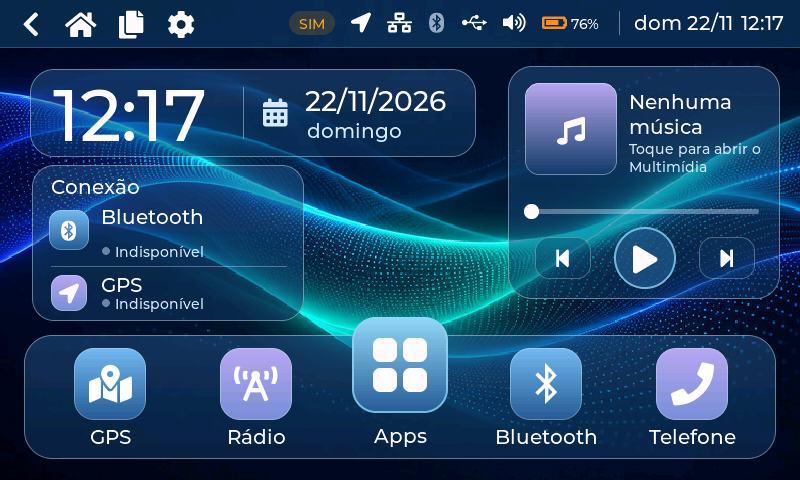
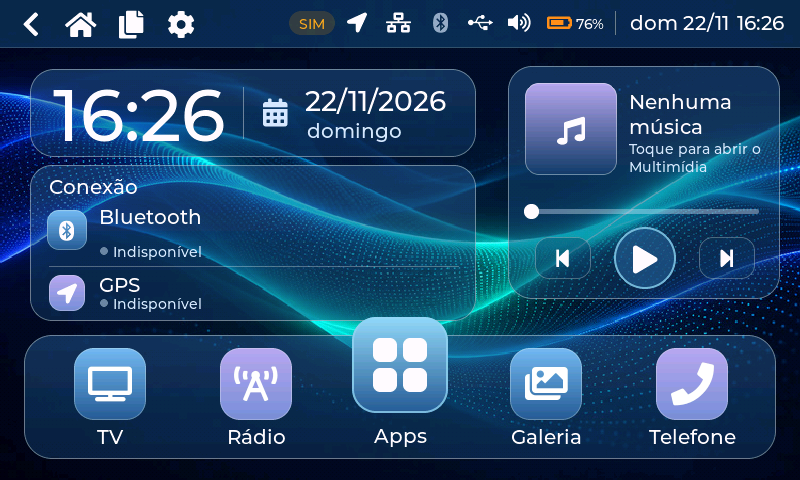
Início, barra superior e toque: atalhos, Conexão com o celular e rolagem estável
- Barra superior: caixas de toque de 44 px em volta dos ícones; GPS -> GpsInfo, rede ->
  SSH, Bluetooth -> Bluetooth, som -> volume num toque, bateria -> Potência.
- Glass: card Conexão mais largo (446 px), linhas inteiras clicáveis (os filhos não roubam
  o toque), operadora, antena e bateria do celular na linha do Bluetooth; dock com TV e
  Galeria no lugar de GPS e Bluetooth.
- Telefone: status ao lado das abas com operadora, antena e bateria; abas compactas.
- Toque: mediana de 3 amostras, média e zona morta de 2 px; LVGL com limiar de rolagem
  de 16 px e arremesso mais curto (rolagem estável no painel resistivo).

Testado no aparelho: volume abre com um toque; o texto da linha Bluetooth abre a tela.

diff --git a/src/ui/screens/scr_home_glass.c b/src/ui/screens/scr_home_glass.c
@@ -15,6 +15,7 @@
 #include "../core/cover.h"
 #include "../core/btstat.h"
 #include "../core/gpsstat.h"
+#include "../core/phonestat.h"
 #include "../widgets/glass.h"
 #include "../assets/icons/bf_icons.h"
 #include <stdio.h>
@@ -25,7 +26,7 @@
 
 static lv_timer_t *tick_t, *spec_t;
 static lv_obj_t *clk, *date_l, *wday_l;
-static lv_obj_t *bt_dev, *bt_st, *bt_dot, *gps_st, *gps_dot, *gps_bars;
+static lv_obj_t *bt_dev, *bt_st, *bt_dot, *gps_st, *gps_dot, *gps_bars, *ph_op, *ph_bars, *ph_bat;
 static lv_obj_t *cov_box, *cov_img, *cov_note, *song, *artist, *spec, *pos_l, *len_l, *prog, *play_l;
 static lv_image_dsc_t thumb;
 static int thumb_for = -2, last_min = -1, last_day = -1;
@@ -105,12 +106,25 @@ static void gl_clock_tick(void)
 static void open_bt(lv_event_t *e) { (void)e; nav_go(SCR_BLUETOOTH, 0); }
 static void open_gps(lv_event_t *e) { (void)e; nav_go(SCR_GPS, 0); }
 
+#define CONN_W 446                         /* largura do card Conexão (alinhado ao do relógio) */
+
+/* a linha inteira é o botão: os filhos não pegam o toque */
+static void unclick_children(lv_obj_t *o)
+{
+    for(uint32_t i = 0; i < lv_obj_get_child_count(o); i++) {
+        lv_obj_t *c = lv_obj_get_child(o, (int32_t)i);
+        lv_obj_remove_flag(c, LV_OBJ_FLAG_CLICKABLE);
+        unclick_children(c);
+    }
+}
+
 static lv_obj_t *row(lv_obj_t *card, int y, int h, lv_event_cb_t cb)
 {
     lv_obj_t *r = lv_obj_create(card);
     lv_obj_remove_style_all(r);
     lv_obj_set_pos(r, 6, y);
-    lv_obj_set_size(r, 258, h);
+    lv_obj_set_size(r, CONN_W - 14, h);
+    lv_obj_add_flag(r, LV_OBJ_FLAG_CLICKABLE);
     lv_obj_set_style_radius(r, 14, 0);
     lv_obj_set_style_bg_color(r, lv_color_white(), LV_STATE_PRESSED);
     lv_obj_set_style_bg_opa(r, LV_OPA_10, LV_STATE_PRESSED);
@@ -132,7 +146,7 @@ static lv_obj_t *dot(lv_obj_t *parent)
 
 static void conn_card(lv_obj_t *p)
 {
-    lv_obj_t *c = glass_card(p, 32, 117, 272, 156, 22);     /* folga abaixo do GPS */
+    lv_obj_t *c = glass_card(p, 30, 117, CONN_W, 156, 22);  /* folga abaixo do GPS */
     lv_obj_t *t = glass_label(c, tr(S_GL_CONNECTION), BF_FONT_M, GL_WHITE);
     lv_obj_set_pos(t, 18, 8);
 
@@ -149,10 +163,22 @@ static void conn_card(lv_obj_t *p)
     lv_obj_set_pos(bt_dot, 63, 45);
     bt_st = glass_label(r, "", BF_FONT_S, GL_ACTIVE);
     lv_obj_set_pos(bt_st, 76, 40);
+    /* celular conectado: operadora, antena (sinal 0-5 em 4 barras) e bateria */
+    ph_op = glass_label(r, "", BF_FONT_S, GL_WHITE);
+    lv_obj_set_width(ph_op, 160);
+    lv_label_set_long_mode(ph_op, LV_LABEL_LONG_DOT);
+    lv_obj_set_style_text_align(ph_op, LV_TEXT_ALIGN_RIGHT, 0);
+    lv_obj_set_pos(ph_op, CONN_W - 14 - 170, 6);
+    ph_bars = glass_bars(r);
+    lv_obj_set_pos(ph_bars, CONN_W - 14 - 100, 30);
+    ph_bat = glass_label(r, "", BF_FONT_S, GL_WHITE);
+    lv_obj_set_pos(ph_bat, CONN_W - 14 - 62, 34);
+    glass_bars_set(ph_bars, -1);
+    unclick_children(r);
 
     lv_obj_t *line = lv_obj_create(c);
     lv_obj_remove_style_all(line);
-    lv_obj_set_size(line, 236, 1);
+    lv_obj_set_size(line, CONN_W - 36, 1);
     lv_obj_set_pos(line, 18, 100);
     lv_obj_set_style_bg_color(line, lv_color_white(), 0);
     lv_obj_set_style_bg_opa(line, LV_OPA_30, 0);
@@ -167,7 +193,8 @@ static void conn_card(lv_obj_t *p)
     gps_st = glass_label(r, "", BF_FONT_S, GL_ACTIVE);
     lv_obj_set_pos(gps_st, 76, 22);
     gps_bars = glass_bars(r);
-    lv_obj_set_pos(gps_bars, 216, 8);
+    lv_obj_set_pos(gps_bars, CONN_W - 14 - 46, 8);
+    unclick_children(r);
 }
 
 static void status_color(lv_obj_t *dot_, lv_obj_t *lbl, bool on)
@@ -200,6 +227,23 @@ static void conn_tick(void)
     set_text_if(bt_dev, dev);
     set_text_if(bt_st, st);
     status_color(bt_dot, bt_st, on);
+
+    /* celular pelo canal de ligações (HFP): operadora, sinal e bateria dele */
+    ph_info_t ph;
+    ph_read(&ph);
+    if(ph.link && ph.signal >= 0) {
+        set_text_if(ph_op, ph.op[0] ? ph.op : "");
+        glass_bars_set(ph_bars, ph.service == 0 ? 0 : (ph.signal * 4 + 4) / 5);
+        char bb[24];
+        snprintf(bb, sizeof bb, "%s %d/5", ph.battery >= 4 ? LV_SYMBOL_BATTERY_FULL : ph.battery >= 3 ? LV_SYMBOL_BATTERY_3 :
+                 ph.battery >= 2 ? LV_SYMBOL_BATTERY_2 : ph.battery >= 1 ? LV_SYMBOL_BATTERY_1 : LV_SYMBOL_BATTERY_EMPTY,
+                 ph.battery < 0 ? 0 : ph.battery);
+        set_text_if(ph_bat, ph.battery >= 0 ? bb : "");
+    } else {
+        set_text_if(ph_op, "");
+        set_text_if(ph_bat, "");
+        glass_bars_set(ph_bars, -1);
+    }
 
     gps_info_t g;
     gps_read(&g);
@@ -423,10 +467,10 @@ static void spec_tick(lv_timer_t *t)
 static void dock_click(lv_event_t *e)
 {
     switch((int)(intptr_t)lv_event_get_user_data(e)) {
-    case 0: nav_go(SCR_MAP, 0); break;
+    case 0: nav_go(SCR_FEATURE, FEAT_TV); break;
     case 1: nav_go(SCR_FEATURE, FEAT_RADIO); break;
     case 2: nav_go(SCR_HOME, HOME_ARG_APPS); break;
-    case 3: nav_go(SCR_BLUETOOTH, 0); break;
+    case 3: nav_go(SCR_GALLERY, 0); break;
     case 4: nav_go(SCR_PHONE, 0); break;
     }
 }
@@ -462,10 +506,10 @@ static void dock(lv_obj_t *p)
 {
     lv_obj_t *d = glass_card(p, 24, 287, 752, 124, 28);
     static const struct { const lv_image_dsc_t *icon; bf_str_t name; uint32_t top, bot; } it[5] = {
-        { &bf_icon_gps, S_APP_GPS, GL_LIGHT, GL_BLUE },
+        { &bf_icon_tv, S_APP_TV, GL_LIGHT, GL_BLUE },
         { &bf_icon_fm, S_GL_RADIO, GL_LAVENDER, GL_LAVBLUE },
         { NULL, S_GL_APPS, GL_SKY, GL_BLUE },
-        { &bf_icon_bluetooth, S_APP_BLUETOOTH, GL_LIGHT, GL_BLUE },
+        { &bf_icon_gallery, S_APP_GALLERY, GL_LIGHT, GL_BLUE },
         { &bf_icon_phone, S_APP_PHONE, GL_LAVENDER, GL_LAVBLUE },
     };
     static const int cx[5] = { 85, 231, 376, 521, 667 };
@@ -526,6 +570,6 @@ void home_glass_destroy(void)
     if(spec_t) { lv_timer_delete(spec_t); spec_t = NULL; }
     jpeg_free(&thumb);
     thumb_for = -2;
-    clk = date_l = wday_l = bt_dev = bt_st = bt_dot = gps_st = gps_dot = gps_bars = NULL;
+    clk = date_l = wday_l = bt_dev = bt_st = bt_dot = gps_st = gps_dot = gps_bars = ph_op = ph_bars = ph_bat = NULL;
     cov_box = cov_img = cov_note = song = artist = spec = pos_l = len_l = prog = play_l = NULL;
 }

diff --git a/src/ui/widgets/topbar.c b/src/ui/widgets/topbar.c
@@ -50,8 +50,35 @@ static void glass_nav(lv_obj_t *bar_)
 static void vol_click(lv_event_t *e)
 {
     lv_area_t a;
-    lv_obj_get_coords(lv_event_get_target(e), &a);
-    volpop_open((a.x1 + a.x2) / 2, a.y2 + 10);
+    lv_obj_get_coords(lv_event_get_current_target(e), &a);
+    volpop_open((a.x1 + a.x2) / 2, a.y2 + 6);
+}
+
+/* atalhos dos ícones de status: GPS -> GpsInfo, rede -> SSH, Bluetooth, bateria -> Potência */
+static void jump_click(lv_event_t *e)
+{
+    volpop_close();
+    nav_go((bf_screen_t)(intptr_t)lv_event_get_user_data(e), 0);
+}
+
+/* caixa de toque de 44 px de altura em volta de um ícone (o desenho continua pequeno) */
+static lv_obj_t *hit_box(lv_obj_t *parent, lv_event_cb_t cb, void *ud)
+{
+    lv_obj_t *b = lv_obj_create(parent);
+    lv_obj_remove_style_all(b);
+    lv_obj_set_size(b, LV_SIZE_CONTENT, BF_TOPBAR_H - 4);
+    lv_obj_set_style_min_width(b, 40, 0);
+    lv_obj_set_style_pad_hor(b, 5, 0);
+    lv_obj_set_style_radius(b, BF_RADIUS_S, 0);
+    lv_obj_set_style_bg_color(b, lv_color_white(), LV_STATE_PRESSED);
+    lv_obj_set_style_bg_opa(b, LV_OPA_20, LV_STATE_PRESSED);
+    lv_obj_set_flex_flow(b, LV_FLEX_FLOW_ROW);
+    lv_obj_set_flex_align(b, LV_FLEX_ALIGN_CENTER, LV_FLEX_ALIGN_CENTER, LV_FLEX_ALIGN_CENTER);
+    lv_obj_set_style_pad_column(b, 4, 0);
+    lv_obj_remove_flag(b, LV_OBJ_FLAG_SCROLLABLE);
+    lv_obj_add_flag(b, LV_OBJ_FLAG_CLICKABLE);
+    lv_obj_add_event_cb(b, cb, LV_EVENT_CLICKED, ud);
+    return b;
 }
 
 static void set_text_if(lv_obj_t *l, const char *t)
@@ -142,23 +169,18 @@ lv_obj_t *topbar_create(lv_obj_t *parent)
     lv_obj_set_size(icons, LV_SIZE_CONTENT, LV_SIZE_CONTENT);
     lv_obj_set_flex_flow(icons, LV_FLEX_FLOW_ROW);
     lv_obj_set_flex_align(icons, LV_FLEX_ALIGN_START, LV_FLEX_ALIGN_CENTER, LV_FLEX_ALIGN_CENTER);
-    lv_obj_set_style_pad_column(icons, glass ? 16 : 12, 0);
+    lv_obj_set_style_pad_column(icons, glass ? 2 : 0, 0);
 
     sim_badge = bf_pill(icons, tr(S_SIM_BADGE), p->warning);
-    ic_gps = icon(icons, LV_SYMBOL_GPS);
-    ic_net = icon(icons, BF_SYMBOL_NET);
-    ic_bt  = icon(icons, LV_SYMBOL_BLUETOOTH);
+    /* cada ícone numa caixa de toque grande; um toque leva à tela dele */
+    ic_gps = icon(hit_box(icons, jump_click, (void *)(intptr_t)SCR_GPS), LV_SYMBOL_GPS);
+    ic_net = icon(hit_box(icons, jump_click, (void *)(intptr_t)SCR_SSH), BF_SYMBOL_NET);
+    ic_bt  = icon(hit_box(icons, jump_click, (void *)(intptr_t)SCR_BLUETOOTH), LV_SYMBOL_BLUETOOTH);
     ic_usb = icon(icons, LV_SYMBOL_USB);
-    ic_vol = icon(icons, LV_SYMBOL_VOLUME_MAX);
-    /* toque no ícone de som: controle de volume, em qualquer tela */
-    lv_obj_add_flag(ic_vol, LV_OBJ_FLAG_CLICKABLE);
-    lv_obj_set_ext_click_area(ic_vol, 14);
-    lv_obj_add_event_cb(ic_vol, vol_click, LV_EVENT_CLICKED, NULL);
-    lv_obj_t *batbox = bf_plain(icons);
-    lv_obj_set_size(batbox, LV_SIZE_CONTENT, LV_SIZE_CONTENT);
-    lv_obj_set_flex_flow(batbox, LV_FLEX_FLOW_ROW);
-    lv_obj_set_flex_align(batbox, LV_FLEX_ALIGN_START, LV_FLEX_ALIGN_CENTER, LV_FLEX_ALIGN_CENTER);
-    lv_obj_set_style_pad_column(batbox, 4, 0);
+    lv_obj_set_style_margin_hor(ic_usb, 5, 0);
+    /* som: um toque abre o controle de volume, em qualquer tela */
+    ic_vol = icon(hit_box(icons, vol_click, NULL), LV_SYMBOL_VOLUME_MAX);
+    lv_obj_t *batbox = hit_box(icons, jump_click, (void *)(intptr_t)SCR_POWER);
     ic_bat = battery_create(batbox, BF_FONT_M);
     bat_pct = bf_label(batbox, "—", BF_FONT_S, p->text);
 

diff --git a/src/ui/core/touch_calib.c b/src/ui/core/touch_calib.c
@@ -98,8 +98,17 @@ static struct {
     bool have_cal, down;
     bf_calib_t cal;
     int32_t rx, ry;         /* bruto, último valor do evdev */
-    lv_point_t pt;          /* calibrado */
+    lv_point_t pt;          /* calibrado e filtrado */
+    int32_t hx[3], hy[3];   /* últimas amostras calibradas (mediana) */
+    unsigned filt_n;        /* amostras desde que o dedo encostou */
 } ts = { .fd = -1 };
+
+static int32_t med3(int32_t a, int32_t b, int32_t c)
+{
+    if(a > b) { int32_t t = a; a = b; b = t; }
+    if(b > c) b = c;
+    return a > b ? a : b;
+}
 
 static void ts_map(void)
 {
@@ -112,8 +121,18 @@ static void ts_map(void)
         x = ts.rx * 800 / 1024;
         y = ts.ry * 480 / 1024;
     }
-    ts.pt.x = LV_CLAMP(0, x, 799);
-    ts.pt.y = LV_CLAMP(0, y, 479);
+    x = LV_CLAMP(0, x, 799);
+    y = LV_CLAMP(0, y, 479);
+    /* Painel resistivo: picos isolados (sobretudo ao encostar e ao soltar) e tremor de
+     * alguns pixels deixavam a rolagem instável. Mediana das 3 últimas amostras (tira os
+     * picos), média com a posição anterior (suaviza) e zona morta de 2 px parado. */
+    if(!ts.filt_n) { for(int i = 0; i < 3; i++) { ts.hx[i] = x; ts.hy[i] = y; } ts.pt.x = x; ts.pt.y = y; }
+    ts.hx[ts.filt_n % 3] = x;
+    ts.hy[ts.filt_n % 3] = y;
+    ts.filt_n++;
+    int32_t mx = med3(ts.hx[0], ts.hx[1], ts.hx[2]), my = med3(ts.hy[0], ts.hy[1], ts.hy[2]);
+    int32_t nx = (ts.pt.x + mx + 1) / 2, ny = (ts.pt.y + my + 1) / 2;
+    if(LV_ABS(nx - ts.pt.x) >= 2 || LV_ABS(ny - ts.pt.y) >= 2) { ts.pt.x = nx; ts.pt.y = ny; }
 }
 
 static void ts_read(lv_indev_t *indev, lv_indev_data_t *data)
@@ -123,7 +142,10 @@ static void ts_read(lv_indev_t *indev, lv_indev_data_t *data)
     while(read(ts.fd, &ev, sizeof ev) == (ssize_t)sizeof ev) {
         if(ev.type == EV_ABS && ev.code == ABS_X) ts.rx = ev.value;
         else if(ev.type == EV_ABS && ev.code == ABS_Y) ts.ry = ev.value;
-        else if(ev.type == EV_KEY && ev.code == BTN_TOUCH) ts.down = ev.value != 0;
+        else if(ev.type == EV_KEY && ev.code == BTN_TOUCH) {
+            ts.down = ev.value != 0;
+            if(ts.down) ts.filt_n = 0;             /* novo toque: o filtro recomeça */
+        }
         else if(ev.type == EV_SYN) ts_map();
     }
     data->point = ts.pt;
@@ -140,6 +162,10 @@ lv_indev_t *touch_create(const char *dev)
     /* por evento: o laço principal espera no fd (poll) e lê na hora em que o kernel
      * entrega o toque; enquanto o dedo está na tela o LVGL lê pelo próprio timer */
     lv_indev_set_mode(in, LV_INDEV_MODE_EVENT);
+    /* rolagem: só começa depois de 16 px (toques não viram rolagem) e o arremesso
+     * desacelera mais rápido (menos "escorregões" com o tremor do resistivo) */
+    lv_indev_set_scroll_limit(in, 16);
+    lv_indev_set_scroll_throw(in, 20);
     return in;
 }
 

diff --git a/src/ui/screens/scr_phone.c b/src/ui/screens/scr_phone.c
@@ -916,8 +916,10 @@ static void refresh(void)
     else if(!cur.link) snprintf(b, sizeof b, "%s", tr(S_PH_NOPHONE));
     else {
         snprintf(b, sizeof b, "%s", cur.dev);
+        /* operadora, antena (sinal) e bateria do celular, pelo HFP */
+        size_t n2 = (size_t)snprintf(b2, sizeof b2, "%s%s", cur.op, cur.op[0] ? "  " : "");
         if(cur.signal >= 0 && cur.battery >= 0)
-            snprintf(b2, sizeof b2, BF_SYMBOL_TOWER " %d/5  %s %d/5", cur.signal,
+            snprintf(b2 + n2, sizeof b2 - n2, BF_SYMBOL_TOWER " %d/5  %s %d/5", cur.signal,
                      cur.battery >= 4 ? LV_SYMBOL_BATTERY_FULL : cur.battery >= 3 ? LV_SYMBOL_BATTERY_3 :
                      cur.battery >= 2 ? LV_SYMBOL_BATTERY_2 : cur.battery >= 1 ? LV_SYMBOL_BATTERY_1 : LV_SYMBOL_BATTERY_EMPTY,
                      cur.battery);
@@ -965,13 +967,16 @@ static void create(lv_obj_t *parent, int arg)
     for(int i = 0; i < NTABS; i++) {
         tab_btn[i] = bf_button(tabbar, syms[i], tr(names[i]), 0);
         lv_obj_set_height(tab_btn[i], 52);
-        lv_obj_set_style_pad_hor(tab_btn[i], BF_SP_M, 0);
+        lv_obj_set_style_pad_hor(tab_btn[i], BF_SP_S, 0);
+        for(uint32_t k = 0; k < lv_obj_get_child_count(tab_btn[i]); k++)   /* abas compactas: sobra lugar */
+            lv_obj_set_style_text_font(lv_obj_get_child(tab_btn[i], (int32_t)k), BF_FONT_S, 0);
         lv_obj_set_style_bg_color(tab_btn[i], lv_color_hex(C_PHONE), LV_STATE_CHECKED);
         lv_obj_set_style_text_color(tab_btn[i], lv_color_white(), LV_STATE_CHECKED);
         lv_obj_add_event_cb(tab_btn[i], on_tab, LV_EVENT_CLICKED, (void *)(intptr_t)i);
     }
     lv_obj_t *st = bf_card(tabbar);
     lv_obj_set_height(st, 52);
+    lv_obj_set_style_min_width(st, 0, 0);
     lv_obj_set_style_pad_ver(st, 4, 0);
     lv_obj_set_style_pad_hor(st, BF_SP_S, 0);
     lv_obj_remove_flag(st, LV_OBJ_FLAG_SCROLLABLE);

diff --git a/docs/foston-glass/00-visao-geral.md b/docs/foston-glass/00-visao-geral.md
@@ -33,7 +33,7 @@ Tudo dentro do shell LVGL existente; nenhum processo ou serviço novo.
 |---|---|
 | Barra superior | y 0-48 (vidro azul-profundo, 70 %) |
 | Relógio e data | (30, 21) 446x88 |
-| Conexão | (32, 117) 272x156 |
+| Conexão | (30, 117) 446x156 (linhas inteiras clicáveis; operadora, antena e bateria do celular) |
 | Player | (508, 18) 272x233 |
 | Dock | (24, 287) 752x124; Apps: quadrado de 96 px por cima do dock (filho da tela), 18 px acima dele |
 
@@ -50,8 +50,11 @@ Tudo dentro do shell LVGL existente; nenhum processo ou serviço novo.
 - **Player:** o da Multimídia (não há outro motor de áudio). Cartão: capa da faixa, espectro real,
   busca na faixa pelo toque. Celular: título, artista, tempo e estado do AVRCP, ícone do
   Bluetooth no lugar da capa (o celular não manda a imagem), sem busca na faixa.
-- **Dock:** GPS (Big GPS), Rádio (página honesta: nenhum receptor de rádio identificado no FOSTON),
-  Apps (grade com todos os aplicativos), Bluetooth, Telefone (docs/phone; a TV fica na grade Apps).
+- **Dock:** TV, Rádio (página honesta: nenhum receptor de rádio identificado no FOSTON),
+  Apps (grade com todos os aplicativos), Galeria, Telefone (docs/phone). GPS e Bluetooth ficam no
+  card Conexão (linha inteira abre a tela) e na barra superior.
+- **Barra superior:** cada ícone tem uma caixa de toque de 44 px: GPS → GpsInfo, rede → SSH,
+  Bluetooth → Bluetooth, som → volume (um toque), bateria → Potência.
 
 ## Desempenho (FOSTON, shell compilado pelo Buildroot)
 
